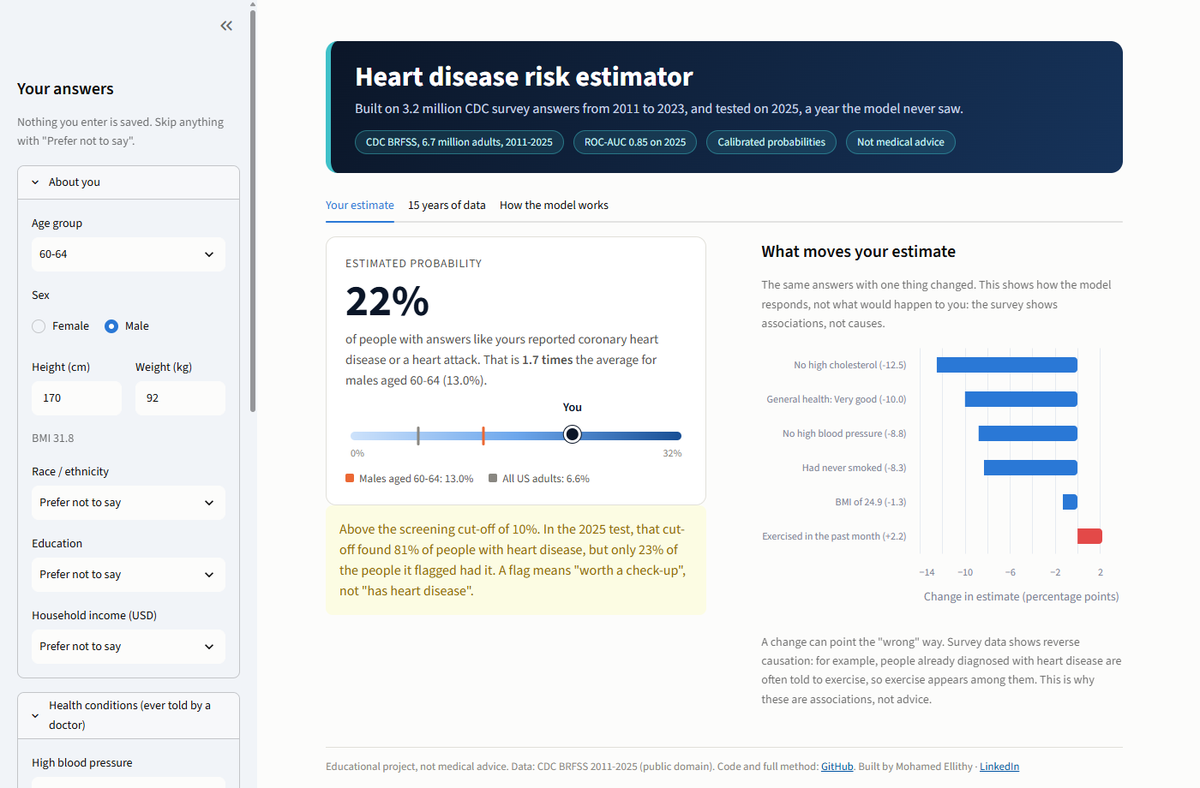
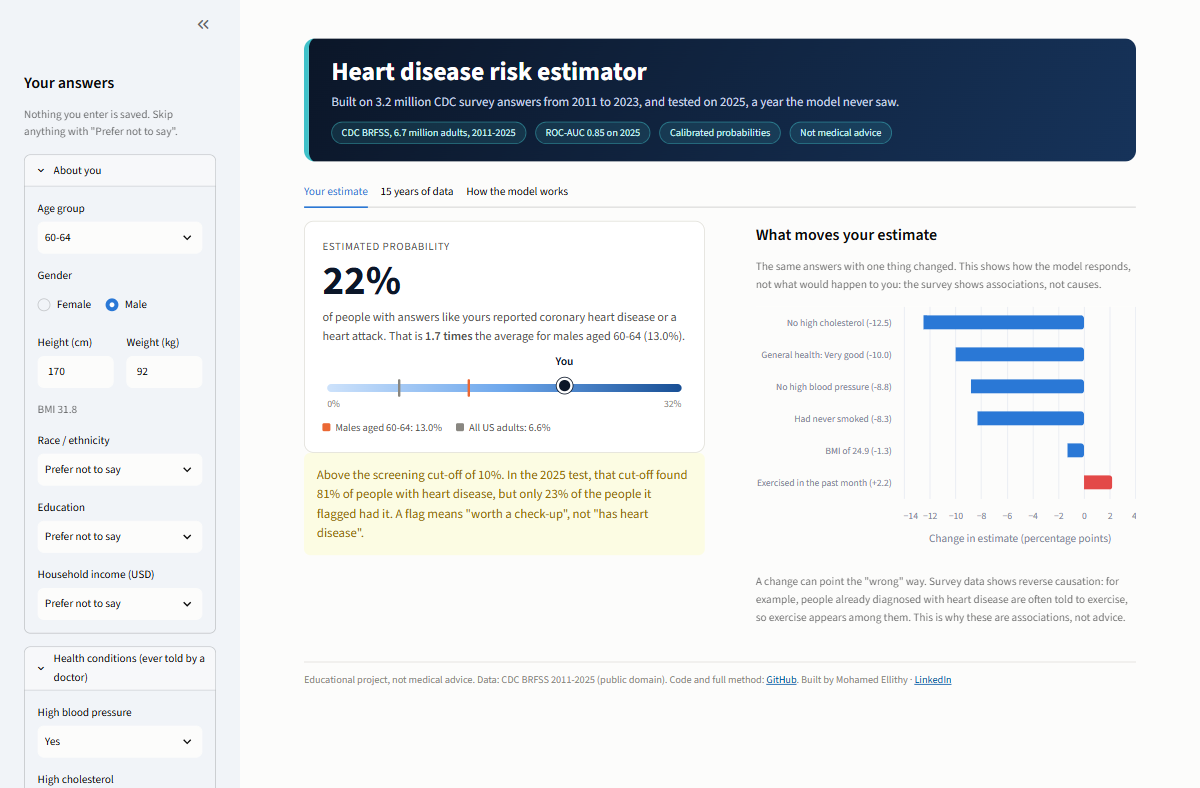
App picture retaken with the Gender label; the app and README say gender in their own words

diff --git a/app/streamlit_app.py b/app/streamlit_app.py
@@ -256,7 +256,7 @@ with tab2:
         rule = alt.Chart(pd.DataFrame({"x": [1]})).mark_rule(color=MUTED, strokeDash=[4, 3]).encode(x="x:Q")
         st.altair_chart((bars + rule).properties(height=alt.Step(34)), width="stretch")
         st.caption("Median over 2011-2025 of Mantel-Haenszel odds ratios: each year, people of the same "
-                   "age group and sex are compared.")
+                   "age group and gender are compared.")
     with c2:
         st.markdown("##### By state, age-adjusted, 2021-2025")
         d = pd.DataFrame(trends["state_tiles"])

diff --git a/README.md b/README.md
@@ -6,7 +6,7 @@ A heart disease risk model and analysis built on **15 yearly CDC surveys (2011-2
 
 **[Try the live app](https://heart-disease-risk-mellithyy.streamlit.app)** · [Key results](#key-results) · [What 15 years show](#what-15-years-of-data-show) · [The 2022 audit](#part-1-auditing-my-2022-version) · [Reproduce](#reproduce)
 
-![The app: answers on the left, the estimated probability compared with people of the same age and sex, and what moves the estimate](reports/figures/app.png)
+![The app: answers on the left, the estimated probability compared with people of the same age and gender, and what moves the estimate](reports/figures/app.png)
 
 ## Key results
 
@@ -41,7 +41,7 @@ All rates below use the survey weights, so they describe US adults rather than j
 
 ![How strongly each factor goes with heart disease, year by year](reports/figures/brfss_factor_stability.png)
 
-- **The strongest links are stable across 15 years** (Mantel-Haenszel odds ratios, comparing people of the same age group and sex): stroke 4.3, COPD 3.5, kidney disease 3.1, high blood pressure 3.0, diabetes 2.6, high cholesterol 2.6, smoking 1.8, no exercise 1.75.
+- **The strongest links are stable across 15 years** (Mantel-Haenszel odds ratios, comparing people of the same age group and gender): stroke 4.3, COPD 3.5, kidney disease 3.1, high blood pressure 3.0, diabetes 2.6, high cholesterol 2.6, smoking 1.8, no exercise 1.75.
 - **Two links weakened:** high cholesterol went from 2.7 to 2.2 and high blood pressure from 3.0 to 2.7. One possible reason is wider treatment (statins, blood pressure medicine); the survey cannot prove it.
 
 ![Heart disease by state, age-adjusted, 2021-2025](reports/figures/brfss_states.png)
@@ -71,7 +71,7 @@ Result: **6,705,004 adults x 31 columns** (6,640,287 with a known heart disease 
 ## The model
 
 - **Time-based evaluation, as in real use.** Blood pressure and cholesterol are asked in odd years, so the model uses odd years: trained on 2011-2021 (2.72 million answers), tuned on 2023, retrained on 2011-2023 (3.15 million), then **tested once on 2025**.
-- **22 answers as inputs:** age, sex, race, BMI, general health, poor physical and mental health days, difficulty walking, smoking, heavy drinking, exercise, blood pressure, cholesterol, diabetes, stroke, kidney disease, COPD, asthma, arthritis, depression, income, education.
+- **22 answers as inputs:** age, gender, race, BMI, general health, poor physical and mental health days, difficulty walking, smoking, heavy drinking, exercise, blood pressure, cholesterol, diabetes, stroke, kidney disease, COPD, asthma, arthritis, depression, income, education.
 - **Left out on purpose:** medication questions and "last check-up". People are given medicine and see doctors more *because* they have heart disease, so these answers leak the diagnosis instead of measuring risk.
 - **No resampling.** The imbalance (9% positives) is handled by choosing the decision threshold on the 2023 predictions, which keeps the probabilities calibrated.
 - **Tuning barely mattered:** four gradient-boosting settings scored PR-AUC 0.362-0.363 on 2023. Better information mattered more: removing blood pressure and cholesterol costs 0.015 PR-AUC on 2025.
